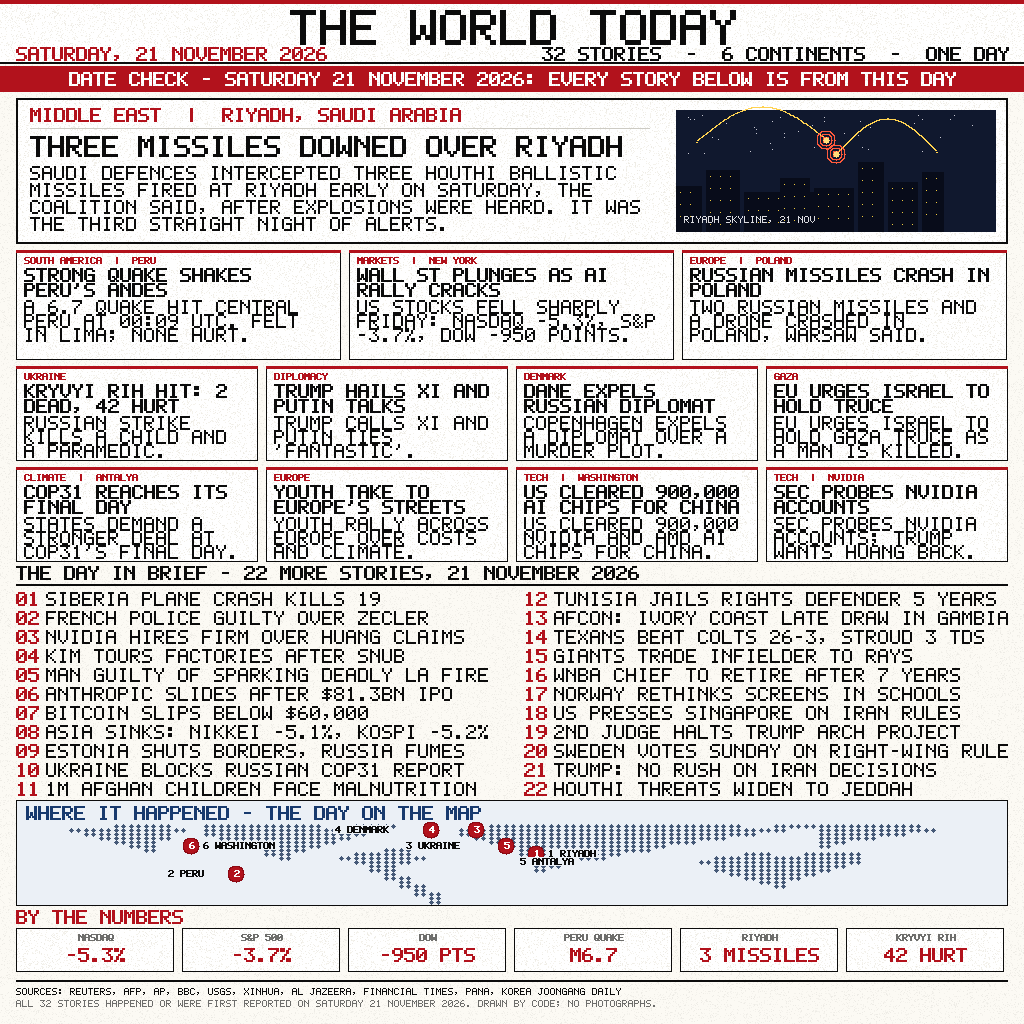
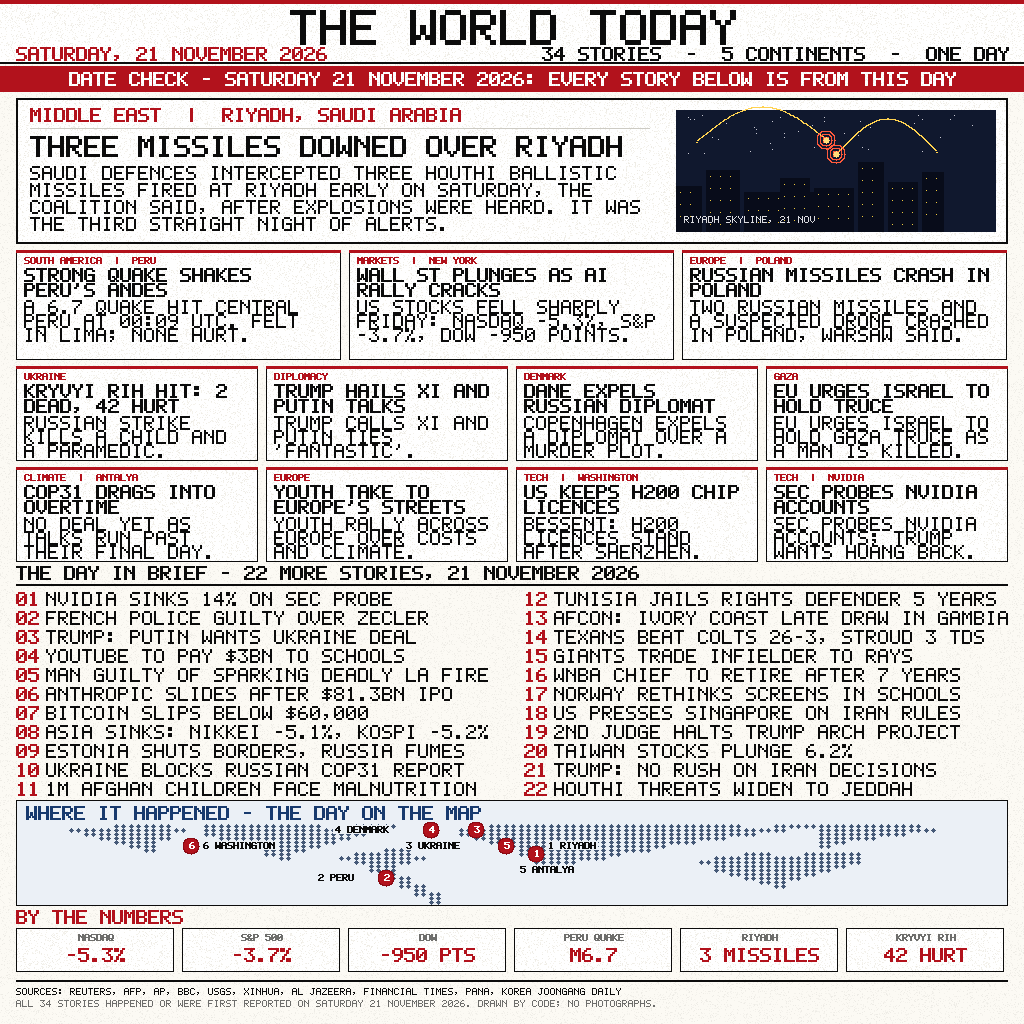
Fixer: apply critic 10 SHOULD-FIX - 34 stories, 5 continents, verified 21 Nov replacements, pin 2 on land

diff --git a/main.py b/main.py
@@ -330,7 +330,7 @@ LEADS = [
     {
         "kicker": "EUROPE  |  POLAND",
         "headline": "RUSSIAN MISSILES CRASH IN POLAND",
-        "body": ("Two Russian missiles and a drone crashed in "
+        "body": ("Two Russian missiles and a suspected drone crashed in "
                  "Poland, Warsaw said."),
     },
 ]
@@ -358,8 +358,8 @@ MIDS = [
     },
     {
         "kicker": "CLIMATE  |  ANTALYA",
-        "headline": "COP31 REACHES ITS FINAL DAY",
-        "body": ("States demand a stronger deal at COP31's final day."),
+        "headline": "COP31 DRAGS INTO OVERTIME",
+        "body": ("No deal yet as talks run past their final day."),
     },
     {
         "kicker": "EUROPE",
@@ -368,8 +368,8 @@ MIDS = [
     },
     {
         "kicker": "TECH  |  WASHINGTON",
-        "headline": "US CLEARED 900,000 AI CHIPS FOR CHINA",
-        "body": ("US cleared 900,000 Nvidia and AMD AI chips for China."),
+        "headline": "US KEEPS H200 CHIP LICENCES",
+        "body": ("Bessent: H200 licences stand after Shenzhen."),
     },
     {
         "kicker": "TECH  |  NVIDIA",
@@ -380,10 +380,10 @@ MIDS = [
 
 # Numbered briefs: (number, one-line headline with the key figure)
 BRIEFS = [
-    "SIBERIA PLANE CRASH KILLS 19",
+    "NVIDIA SINKS 14% ON SEC PROBE",
     "FRENCH POLICE GUILTY OVER ZECLER",
-    "NVIDIA HIRES FIRM OVER HUANG CLAIMS",
-    "KIM TOURS FACTORIES AFTER SNUB",
+    "TRUMP: PUTIN WANTS UKRAINE DEAL",
+    "YOUTUBE TO PAY $3BN TO SCHOOLS",
     "MAN GUILTY OF SPARKING DEADLY LA FIRE",
     "ANTHROPIC SLIDES AFTER $81.3BN IPO",
     "BITCOIN SLIPS BELOW $60,000",
@@ -399,7 +399,7 @@ BRIEFS = [
     "NORWAY RETHINKS SCREENS IN SCHOOLS",
     "US PRESSES SINGAPORE ON IRAN RULES",
     "2ND JUDGE HALTS TRUMP ARCH PROJECT",
-    "SWEDEN VOTES SUNDAY ON RIGHT-WING RULE",
+    "TAIWAN STOCKS PLUNGE 6.2%",
     "TRUMP: NO RUSH ON IRAN DECISIONS",
     "HOUTHI THREATS WIDEN TO JEDDAH",
 ]
@@ -444,11 +444,11 @@ MAP_ROWS = [
 # Positions are nudged a little so the crowded eastern
 # Mediterranean pins stay readable on this schematic map.
 PINS = [
-    (34, 8, "1", "1 RIYADH", 12, -4),
-    (14, 13, "2", "2 PERU", -68, -4),
+    (34, 8, "1", "1 RIYADH", 12, -12),
+    (24, 14, "2", "2 PERU", -68, -4),
     (30, 2, "3", "3 UKRAINE", -70, 12),
     (27, 2, "4", "4 DENMARK", -96, -4),
-    (32, 6, "5", "5 ANTALYA", 14, 12),
+    (32, 6, "5", "5 ANTALYA", 14, 20),
     (11, 6, "6", "6 WASHINGTON", 12, -4),
 ]
 
@@ -487,7 +487,7 @@ def draw_masthead(c):
     c.hline(0, W, 0, RED, 4)
     c.text_centred(W // 2, 10, "THE WORLD TODAY", 5, INK, bold=True)
     c.draw_text(16, 47, "SATURDAY, 21 NOVEMBER 2026", 2, RED, bold=True)
-    right = "32 STORIES  -  6 CONTINENTS  -  ONE DAY"
+    right = "34 STORIES  -  5 CONTINENTS  -  ONE DAY"
     c.draw_text(W - 16 - text_width(right, 2), 47, right, 2, INK, bold=True)
     c.hline(0, W, 62, INK, 2)
     # red date-check bar
@@ -648,7 +648,7 @@ def build():
     c.hline(16, W - 16, 980, INK, 2)
     c.draw_text(16, 988, SOURCES, 1, INK)
     c.draw_text(16, 1000,
-                "ALL 32 STORIES HAPPENED OR WERE FIRST REPORTED ON "
+                "ALL 34 STORIES HAPPENED OR WERE FIRST REPORTED ON "
                 "SATURDAY 21 NOVEMBER 2026. DRAWN BY CODE; NO PHOTOGRAPHS.",
                 1, GREY)
     speckle(c)

diff --git a/README.md b/README.md
@@ -4,7 +4,7 @@
 [![rank](https://make.fun/badge/news-image-20261121/sadiomonro-boop/world-today-21-nov-2026/rank.svg)](https://make.fun/bounty/news-image-20261121/leaderboard?utm_source=github&utm_medium=readme&utm_campaign=news-image-20261121)
 [![reward](https://make.fun/badge/news-image-20261121/sadiomonro-boop/world-today-21-nov-2026/reward.svg)](https://make.fun/bounty/news-image-20261121?utm_source=github&utm_medium=readme&utm_campaign=news-image-20261121)
 
-A front-page newspaper image summing up the world news of Saturday 21 November 2026: 32 date-checked stories across 6 continents, drawn entirely in code with the Python standard library.
+A front-page newspaper image summing up the world news of Saturday 21 November 2026: 34 date-checked stories across 5 continents, drawn entirely in code with the Python standard library.
 
 ## Run it
 
